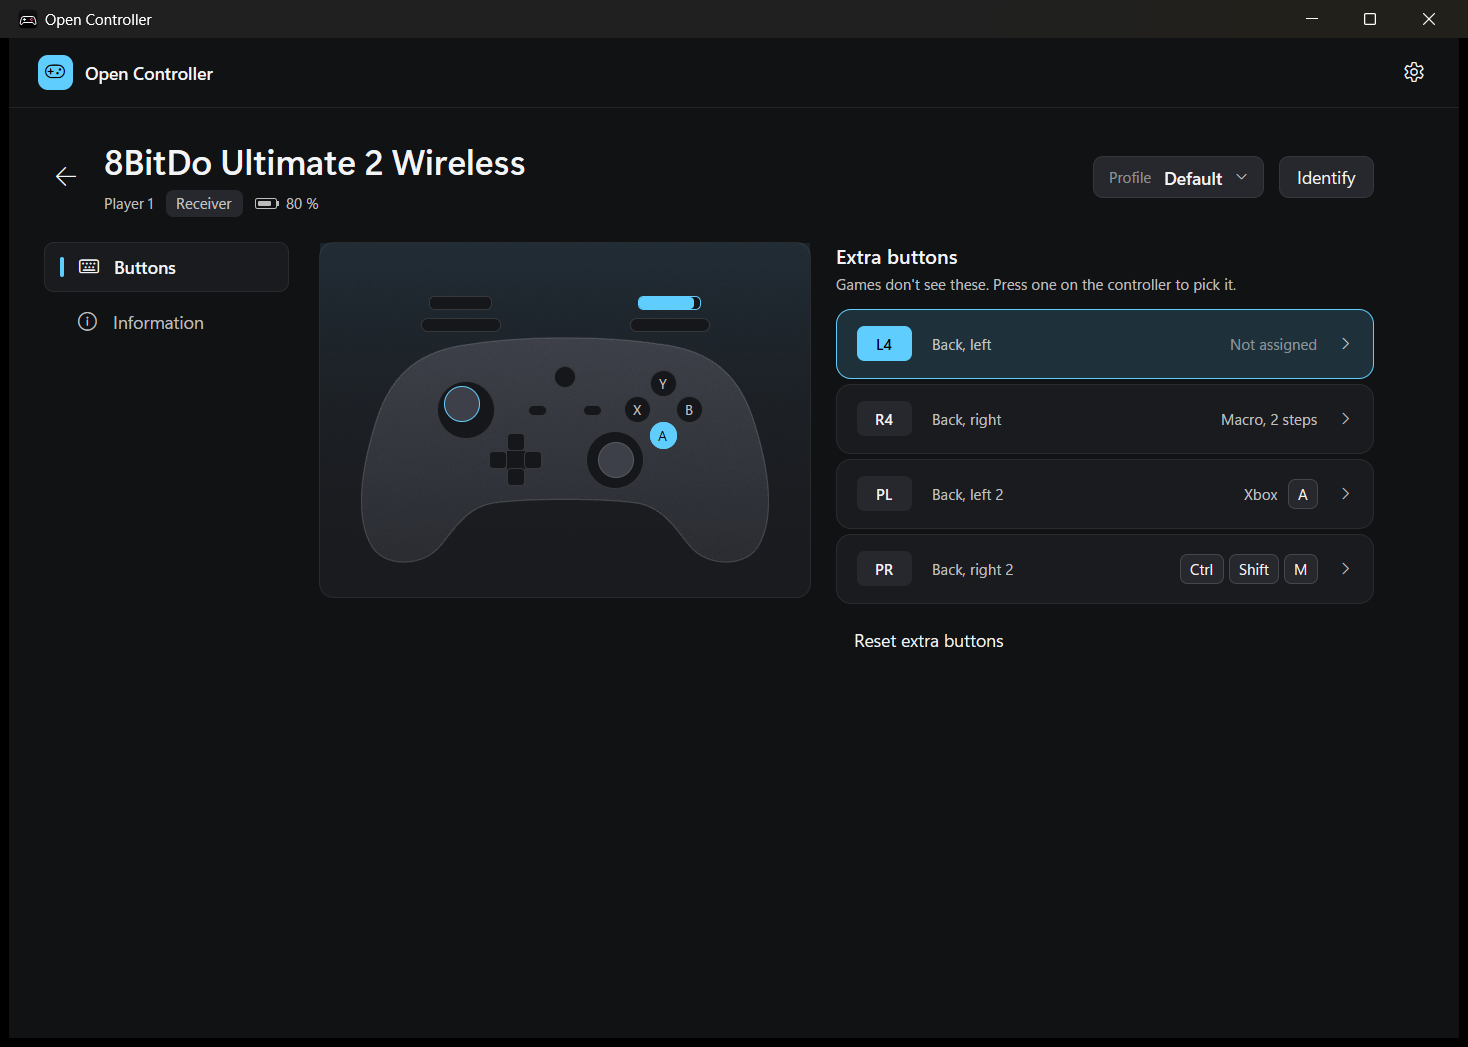
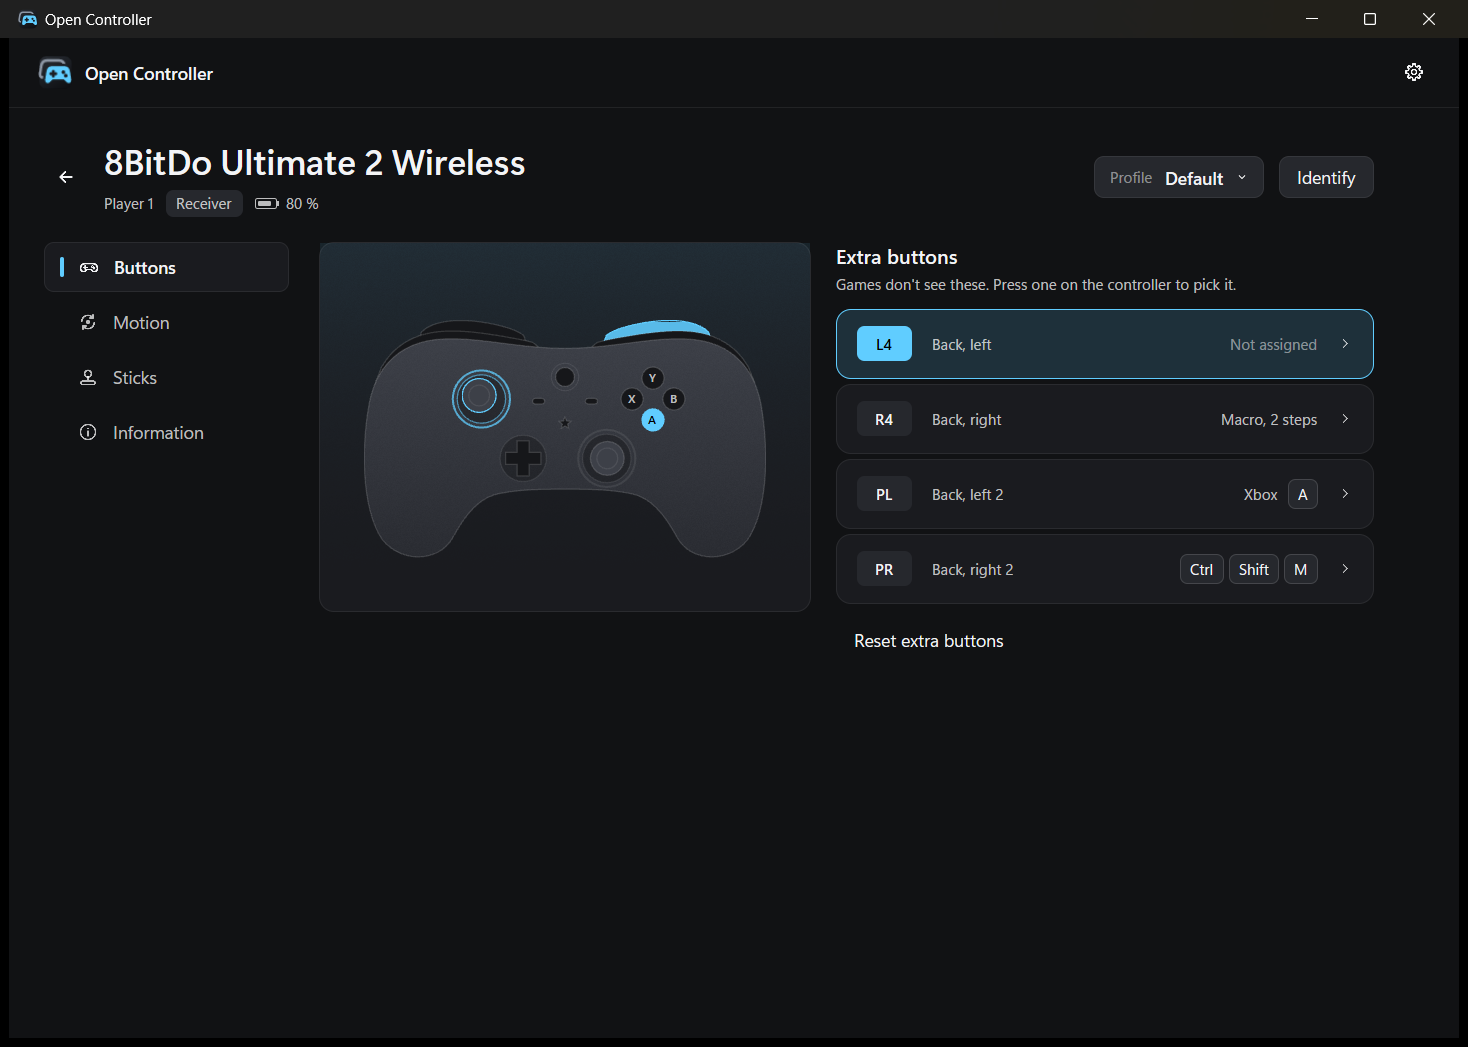
Release 0.4.0

diff --git a/README.md b/README.md
@@ -15,13 +15,13 @@ knows, and keeps out of the way: a resident process of 3.2 MB that adds about 0.
 controller and the game. Xbox controllers are left alone, since games already read them. The
 window is a separate program that only exists while it is open.
 
-Open Controller is open source (MIT) and in development, at version 0.3.0. The engine is tested
+Open Controller is open source (MIT) and in development, at version 0.4.0. The engine is tested
 end to end with a simulated controller on Windows 11 and, in CI, on Linux; on hardware only on
 Windows, with an 8BitDo Ultimate 2 Wireless. Every other controller below is SDL's support, and the
 Linux and macOS versions have not met a real controller yet. Treat it as a beta, and please report
 what you plug in.
 
-![Open Controller with eight controllers as tiles, each drawn with its live input: an 8BitDo Ultimate 2 on its receiver, a DualSense Edge, a Switch Pro Controller, Joy-Cons, a DualShock 3, an Xbox controller, a DualShock 4 reconnecting and an 8BitDo in XInput mode](docs/window.png)
+![Open Controller with eight controllers as tiles, each drawn as it looks and with its live input: an 8BitDo Ultimate 2 on its receiver, a DualSense, a Switch Pro Controller, Joy-Cons, an 8BitDo SN30 Pro, an Xbox controller, a DualShock 4 reconnecting and a DualSense Edge](docs/window.png)
 
 ## Installing
 
@@ -30,14 +30,14 @@ with its SHA-256 next to it.
 
 ### Windows
 
-Download `open-controller-0.3.0-windows-x64-setup.exe` and run it. It installs for your user only,
+Download `open-controller-0.4.0-windows-x64-setup.exe` and run it. It installs for your user only,
 without administrator rights, adds Open Controller to the Start menu and to Apps in Settings
 (where it uninstalls), and starts it. Run it again over an existing installation, or let the app
 do it, and it updates in place: the running copy quits first, and your settings, kept in
 `%APPDATA%\io.github.brunovncs.open-controller`, stay. The installer is not code-signed, so
 SmartScreen warns the first time ("More info", then "Run anyway").
 
-To run it without installing, download `open-controller-0.3.0-windows-x64.zip`, extract it anywhere
+To run it without installing, download `open-controller-0.4.0-windows-x64.zip`, extract it anywhere
 and run `open-controller.exe`. The programs are not code-signed yet, so Windows SmartScreen warns
 on the first start ("More info", then "Run anyway"). Neither the app nor its installation needs
 administrator rights.
@@ -62,7 +62,7 @@ Windows" and "Quit". Closing the window does not stop anything.
 
 ### Linux
 
-Download `open-controller-0.3.0-linux-x64.tar.gz` (built on Ubuntu 22.04; any distribution as
+Download `open-controller-0.4.0-linux-x64.tar.gz` (built on Ubuntu 22.04; any distribution as
 recent works), extract it and run `./install.sh`. It installs the two programs to `~/.local/bin`
 with an entry in your applications menu, and a udev rule, which asks for your password once. The
 rule lets the user at the seat create virtual controllers through `/dev/uinput` and read the HID
@@ -77,7 +77,7 @@ applications menu, and "Start when you sign in" adds an XDG autostart entry.
 
 ### macOS
 
-Download `open-controller-0.3.0-macos-arm64.zip` (Apple silicon) or `-macos-x64.zip` (Intel) and
+Download `open-controller-0.4.0-macos-arm64.zip` (Apple silicon) or `-macos-x64.zip` (Intel) and
 move Open Controller to Applications. It is not notarised: the first time, open it with a
 right-click and Open. macOS lets no program create game controllers without an entitlement Apple
 grants case by case, and games there already read PlayStation, Xbox and Switch Pro controllers
@@ -112,10 +112,13 @@ between. Signing out or shutting down Windows quits it cleanly.
 
 ### The window
 
-Each controller is a tile, drawn in its own shape (an Xbox-style pad, a PlayStation pad with its
-touchpad, a symmetric pad like the DualShock 3 or 8BitDo Pro 2, a pad without sticks, a pair of
-Joy-Cons or a handheld) with its sticks, triggers and buttons lit as they are pressed, and its
-player, connection and battery. A controller's page has its profiles at the top and three
+Each controller is a tile, drawn as it looks: the DualSense, DualSense Edge, DualShock 4 and 3,
+the Xbox and Switch Pro controllers, Joy-Cons, the 8BitDo Ultimate and SN30 Pro shapes, Super
+Nintendo style pads, handhelds and a generic pad, each with its outline, its controls where the
+real one has them and details such as the DualSense's light strips or the Ultimate's star. Sticks,
+triggers and buttons light up as they are pressed, next to the player, connection and battery.
+The same drawings are on the website. Icons are drawn too, so the window looks the same on
+Windows, Linux and macOS. A controller's page has its profiles at the top and three
 sections: Buttons, with the drawing and the extra buttons; Light, for controllers whose light bar
 can be coloured; and Information, with the model, its USB id, what games see and what it can do.
 "Identify" makes it rumble, and "Turn off" disconnects a Bluetooth PlayStation or Switch
@@ -337,7 +340,7 @@ start-up. SDL is built from source and linked statically, which needs CMake and 
 Without the Visual Studio build tools, the GNU toolchain works for this folder
 (`rustup override set stable-x86_64-pc-windows-gnu`) with a MinGW gcc on `PATH`.
 
-The 74 tests on Windows (66 on Linux and macOS, where the Windows drivers' do not apply) cover the Xbox report mapping and the stick-noise filter, the slot roster (handoff,
+The 76 tests on Windows (68 on Linux and macOS, where the Windows drivers' do not apply) cover the Xbox report mapping and the stick-noise filter, the slot roster (handoff,
 grace period, two connections of one controller), device identity and connection type, the
 ViGEmBus and HidHide request layouts and IOCTL codes, HidHide's list handling (other programs'
 entries survive) and its journal file, the bundled mappings, the table of known models and the

diff --git a/CHANGELOG.md b/CHANGELOG.md
@@ -3,6 +3,14 @@
 Each release's section here is its release notes on GitHub. It says what changed for someone who
 plays with Open Controller, and whether settings carry over.
 
+## 0.4.0
+
+Controllers look like themselves. The window draws each one in its own shape, with its controls
+where the real one has them: the DualSense with its touchpad and light strips, the DualShock 4,
+the Xbox and Switch Pro controllers, Joy-Cons, the 8BitDo Ultimate with its star and the 8BitDo
+SN30 Pro, among others. The icons are drawn instead of taken from a Windows font, so they show
+on Linux and macOS too. Settings from 0.3.0 carry over, and 0.3.0 offers this update by itself.
+
 ## 0.3.0
 
 A Windows installer, and updates. `open-controller-0.3.0-windows-x64-setup.exe` installs for your
